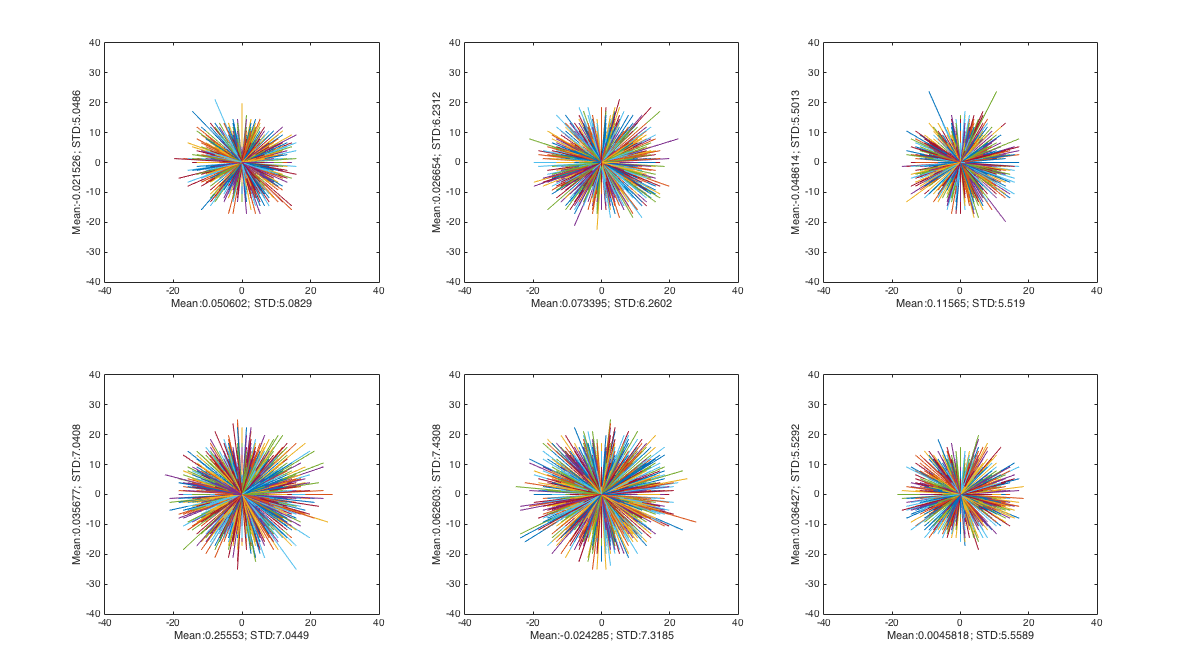
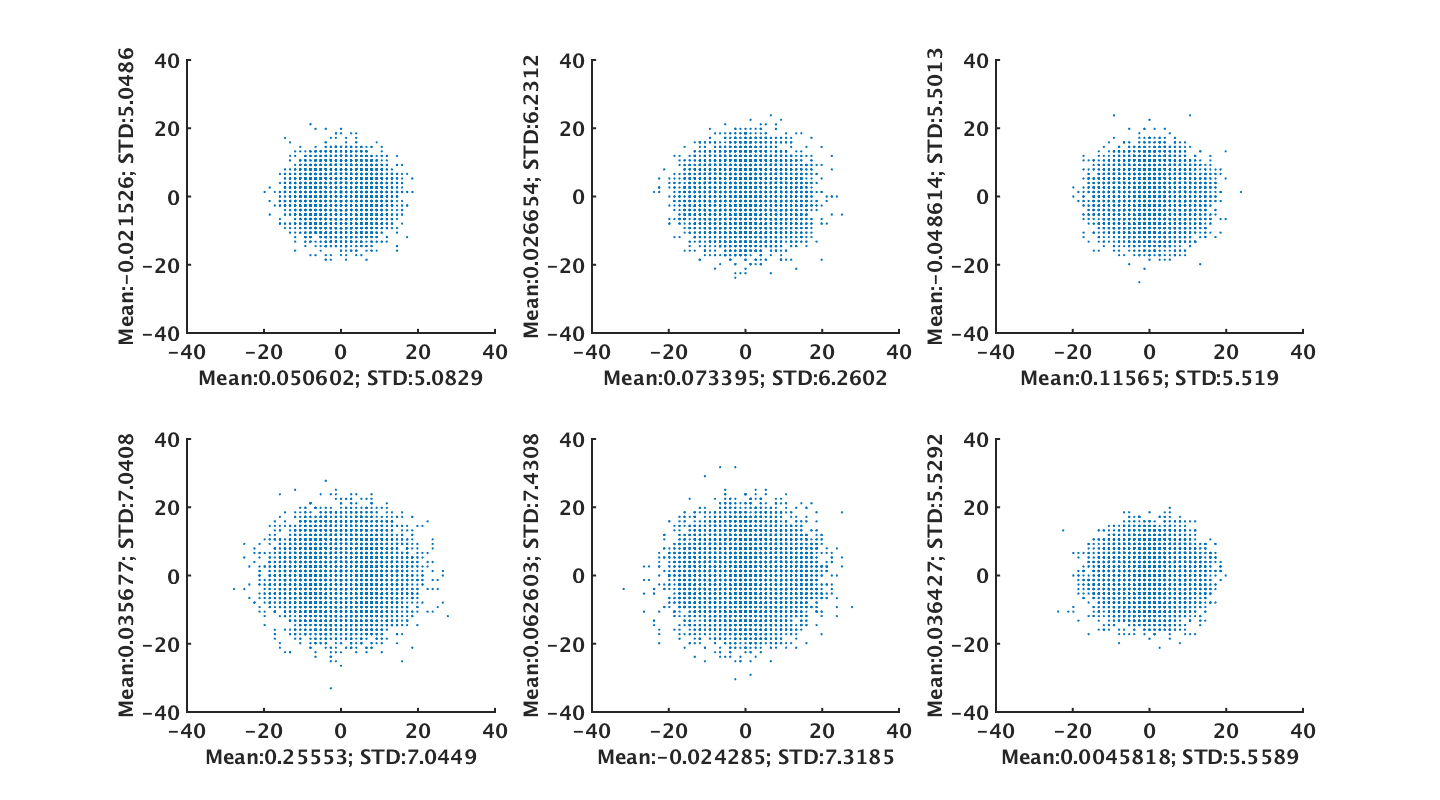
updated code a bit, added figs

diff --git a/homework/hw4/code/part2.m b/homework/hw4/code/part2.m
@@ -10,10 +10,7 @@ for i = 1:6
    xm = mean(real(dat));
    xs = std(real(dat));
    
-   for j = 1:length(dat)/4
-        plot([0, real(dat(j))], [0, imag(dat(j))])
-        hold on 
-   end
+   scatter(real(dat), imag(dat), '.')
    axis([-40 40 -40 40])
    xlabel(strcat('Mean: ', num2str(xm), '; STD: ', num2str(xs)))
    ylabel(strcat('Mean: ', num2str(ym), '; STD: ', num2str(ys)))
@@ -33,12 +30,14 @@ fiftflat = [real(fift); imag(fift)]/250;
 figure
 for i = 1:6
     subplot(2, 3, i)
-    hist(fiftflat(:,1,1,i), 100)
+    hist(fiftflat(:,1,1,i), 1000)
 end
 
 magfitty = RSS(fift);
 figure
-subplot(121)
-imagesc(magfitty)
-subplot(122)
-hist(magfitty, 100)
+for i =1:6
+    subplot(3, 3, i)
+    hist(RSS(fift(:,:,1, i)), 10000)
+end
+subplot(3,3,9)
+hist(magfitty, 10000)

diff --git a/homework/hw4/code/driver.m b/homework/hw4/code/driver.m
@@ -10,9 +10,9 @@ ims = {};
 ims_rms = {};
 plot = true;
 
-for i = 1:length(fnames)-1
+for i = 13:length(fnames)
     load(fnames(i).name)
-    if i <= 3
+    if i <= 3=
         first = true;
     else
         first = false;
